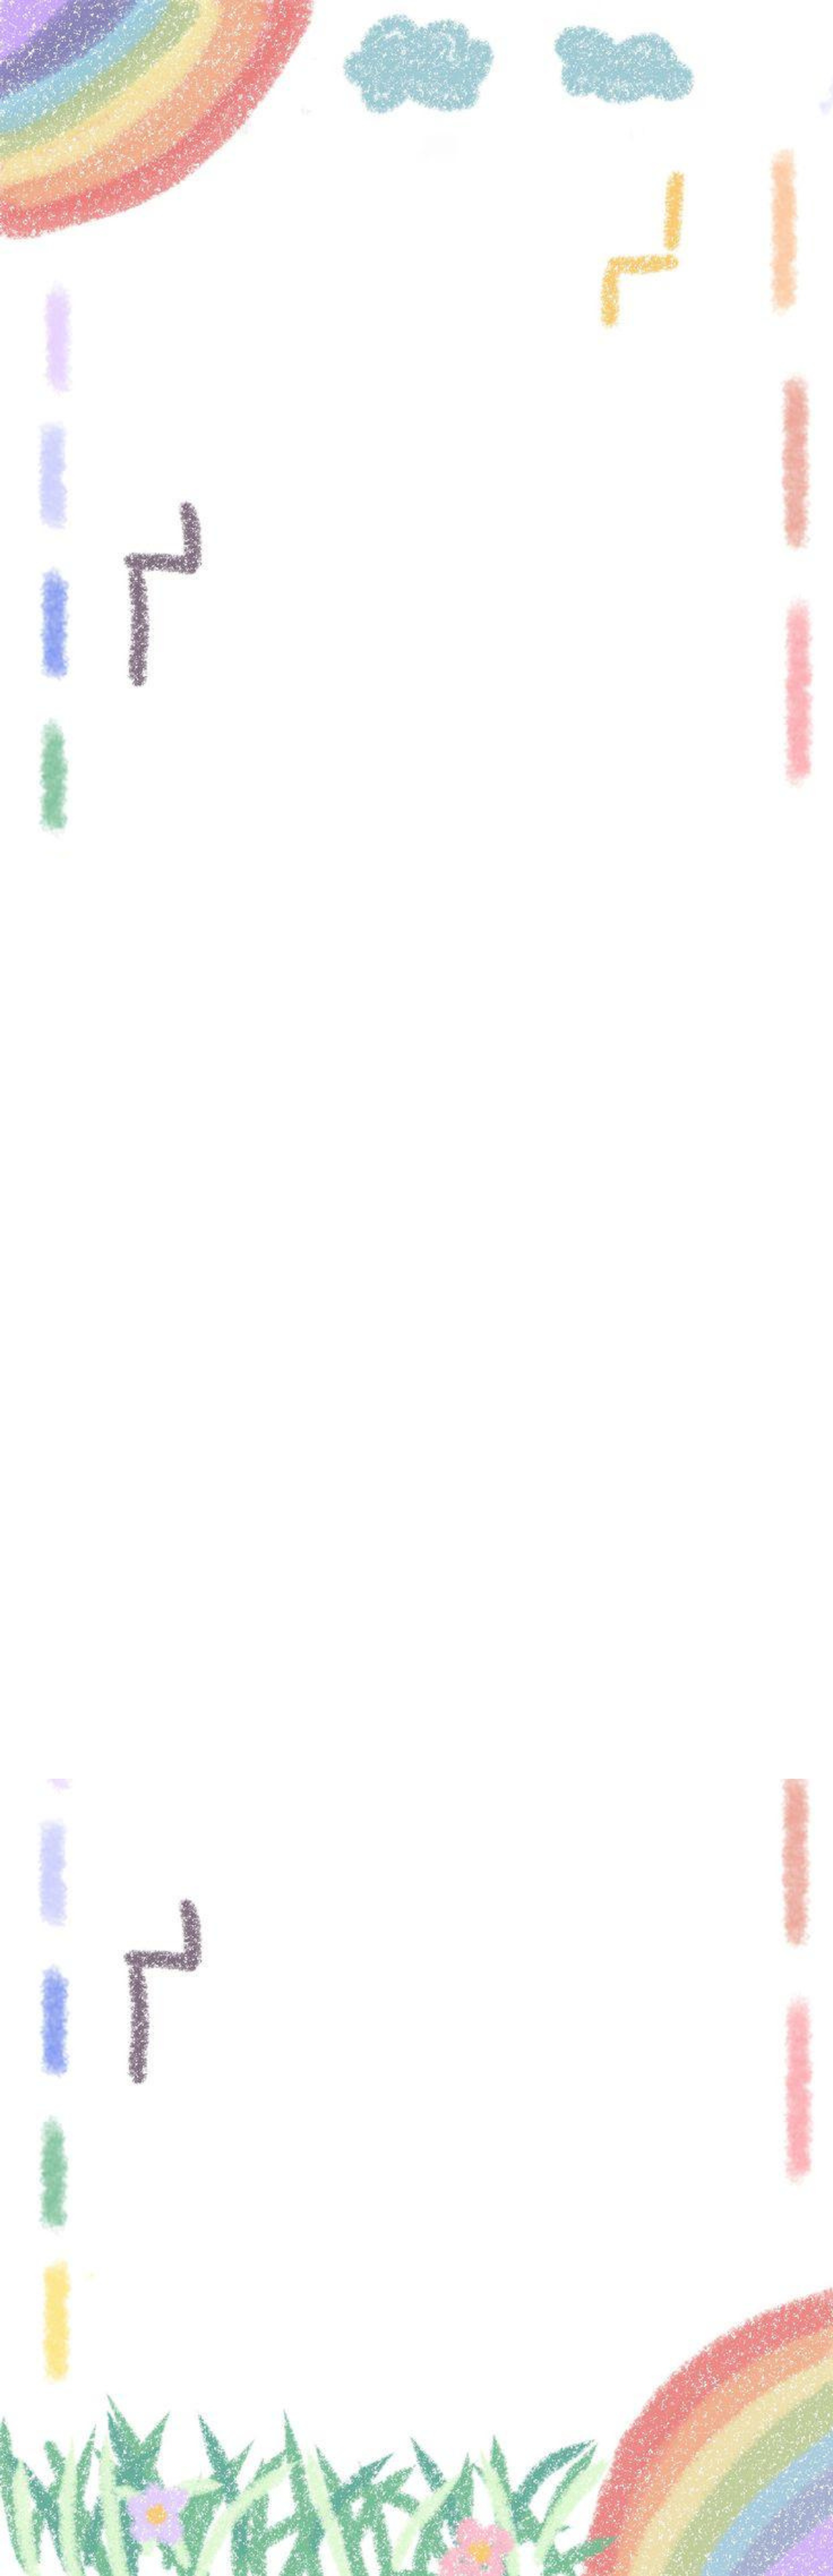
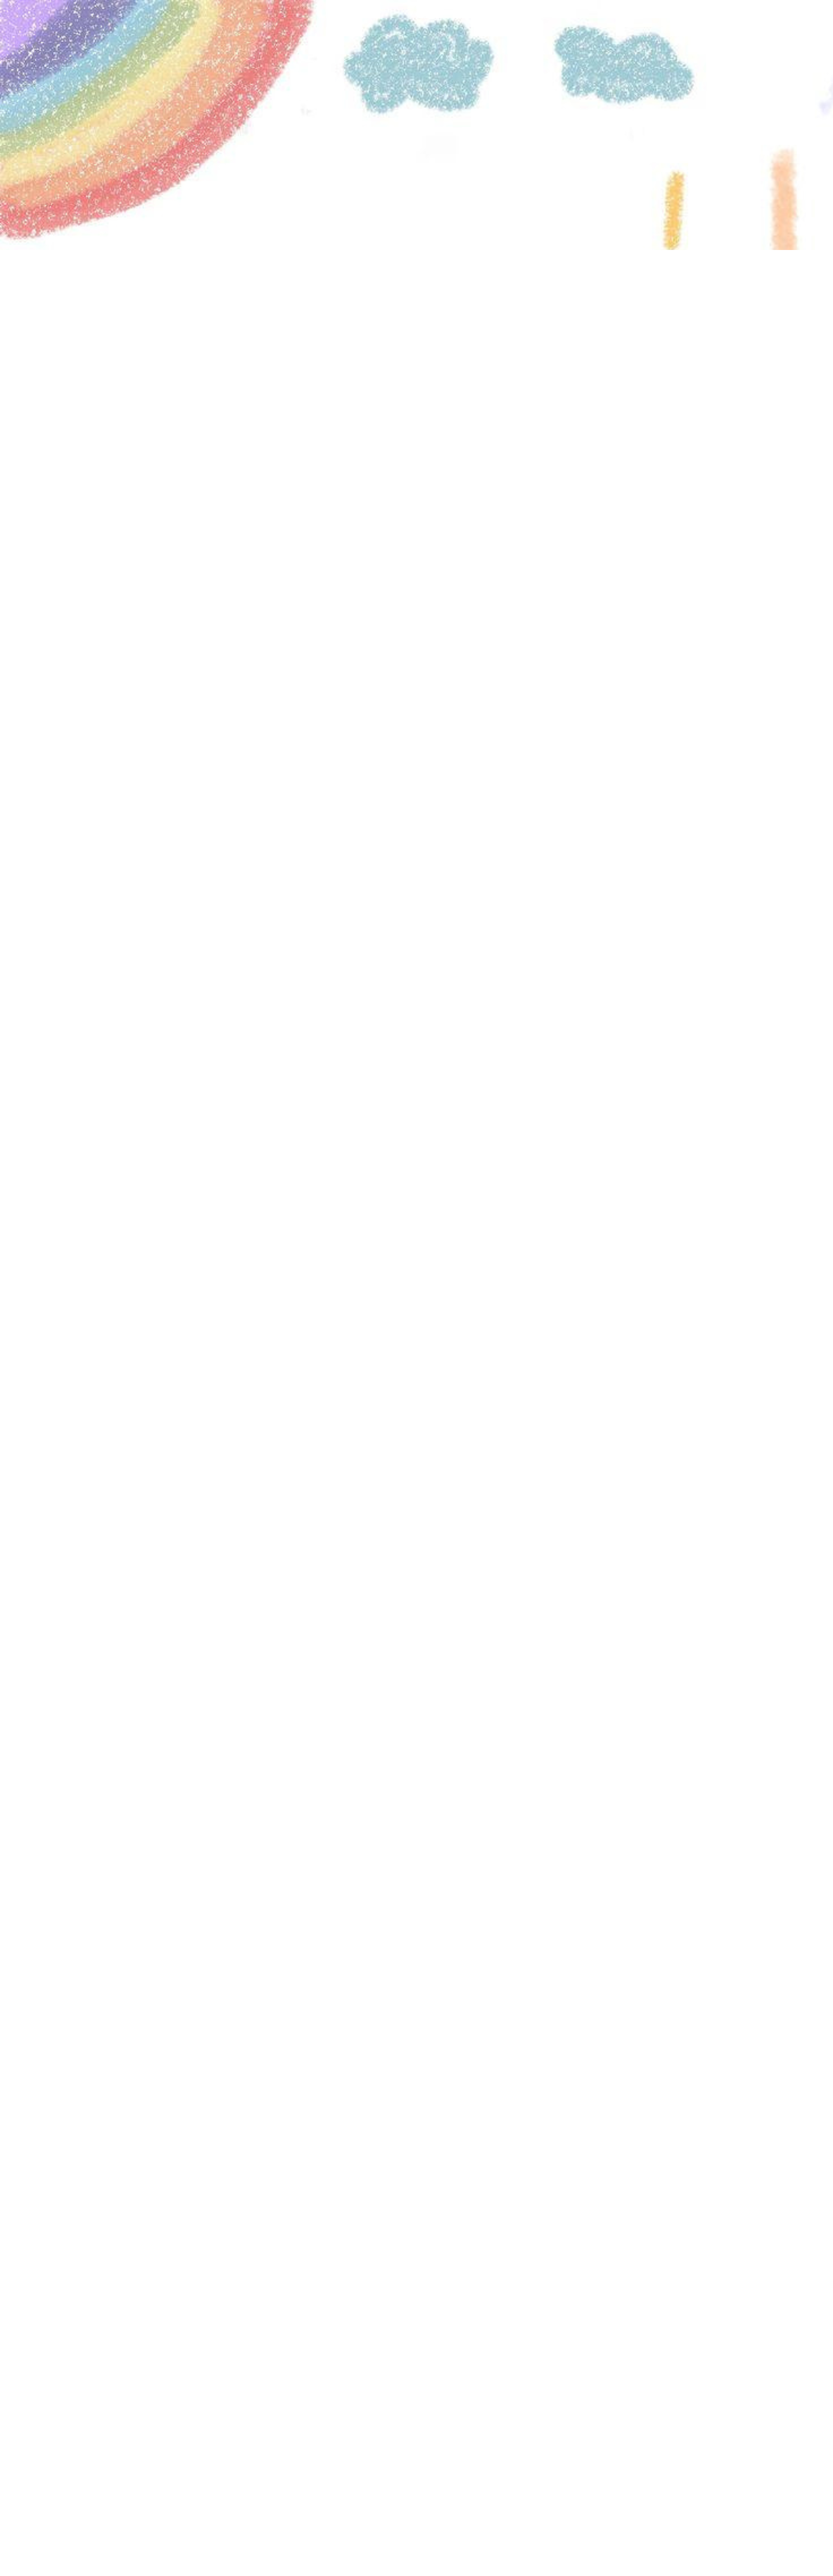
V1.5.1

diff --git a/css/style.css b/css/style.css
@@ -2,7 +2,7 @@ body {
   font-family: 'Poppins', sans-serif;
 
   color: #48494a;
-  background-image: url(../images/body00.png);
+  background-image: url(../images/Design\ sem\ nome.png);
   background-position: top;
   background-repeat: no-repeat;
   background-size: 100%;

diff --git a/css/bootstrap.css b/css/bootstrap.css
@@ -4,7 +4,7 @@
  * Copyright 2011-2019 Twitter, Inc.
  * Licensed under MIT (https://github.com/twbs/bootstrap/blob/master/LICENSE)
  */
-:root {
+ :root {
   --blue: #007bff;
   --indigo: #6610f2;
   --purple: #6f42c1;
